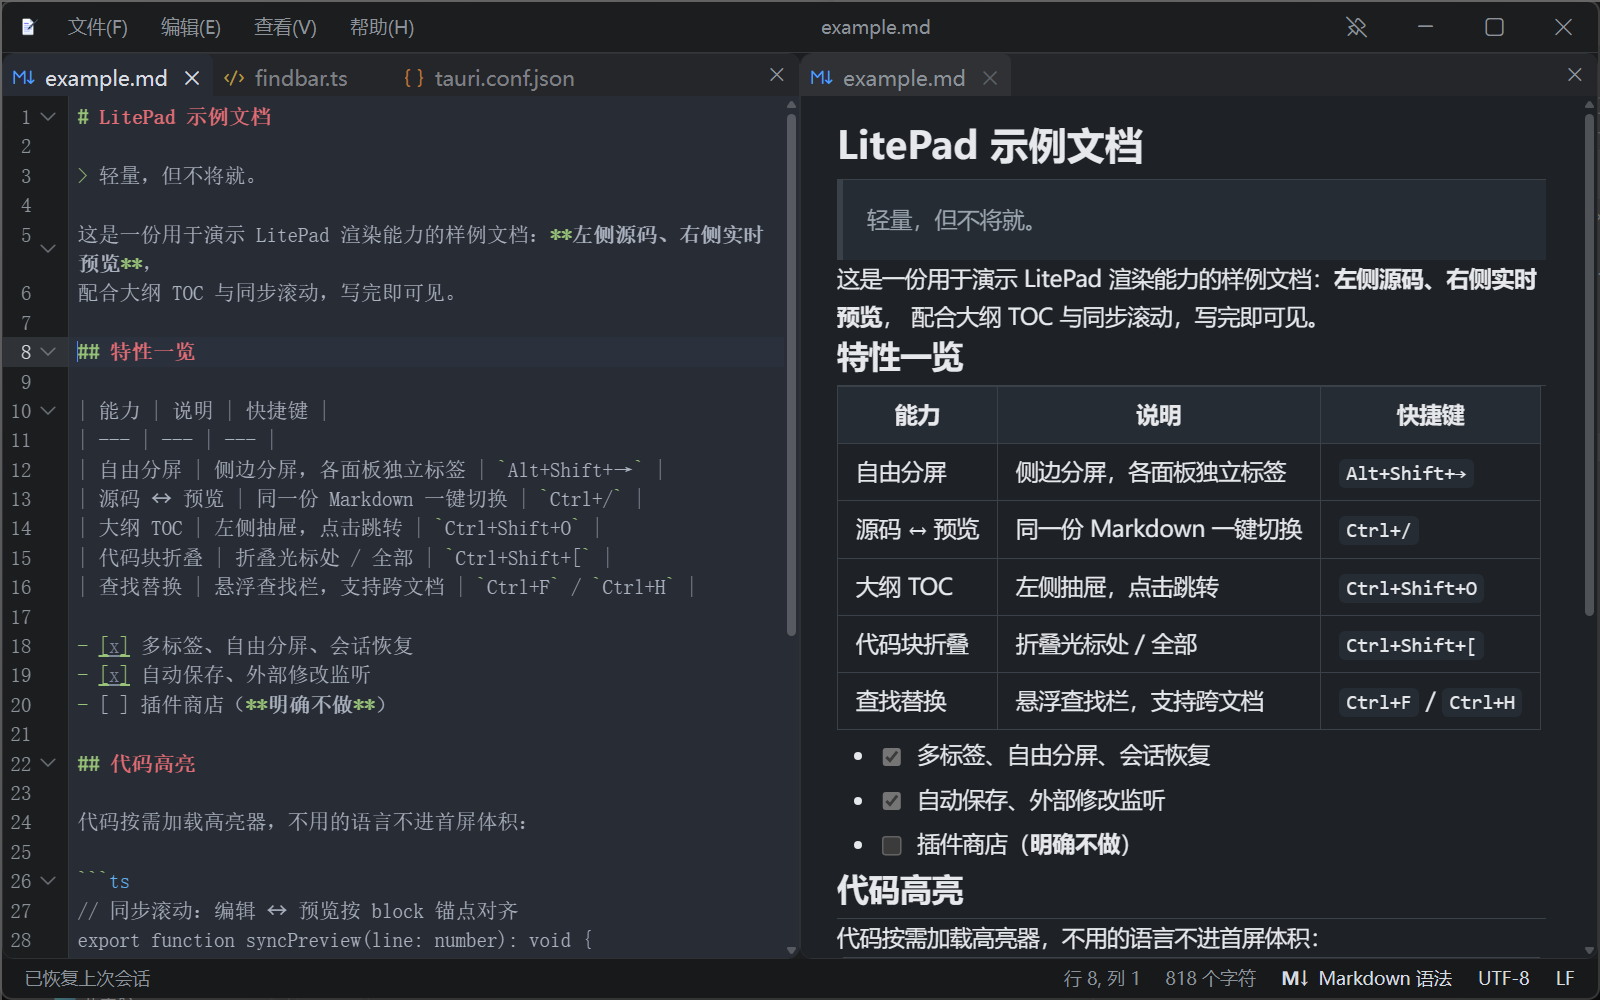
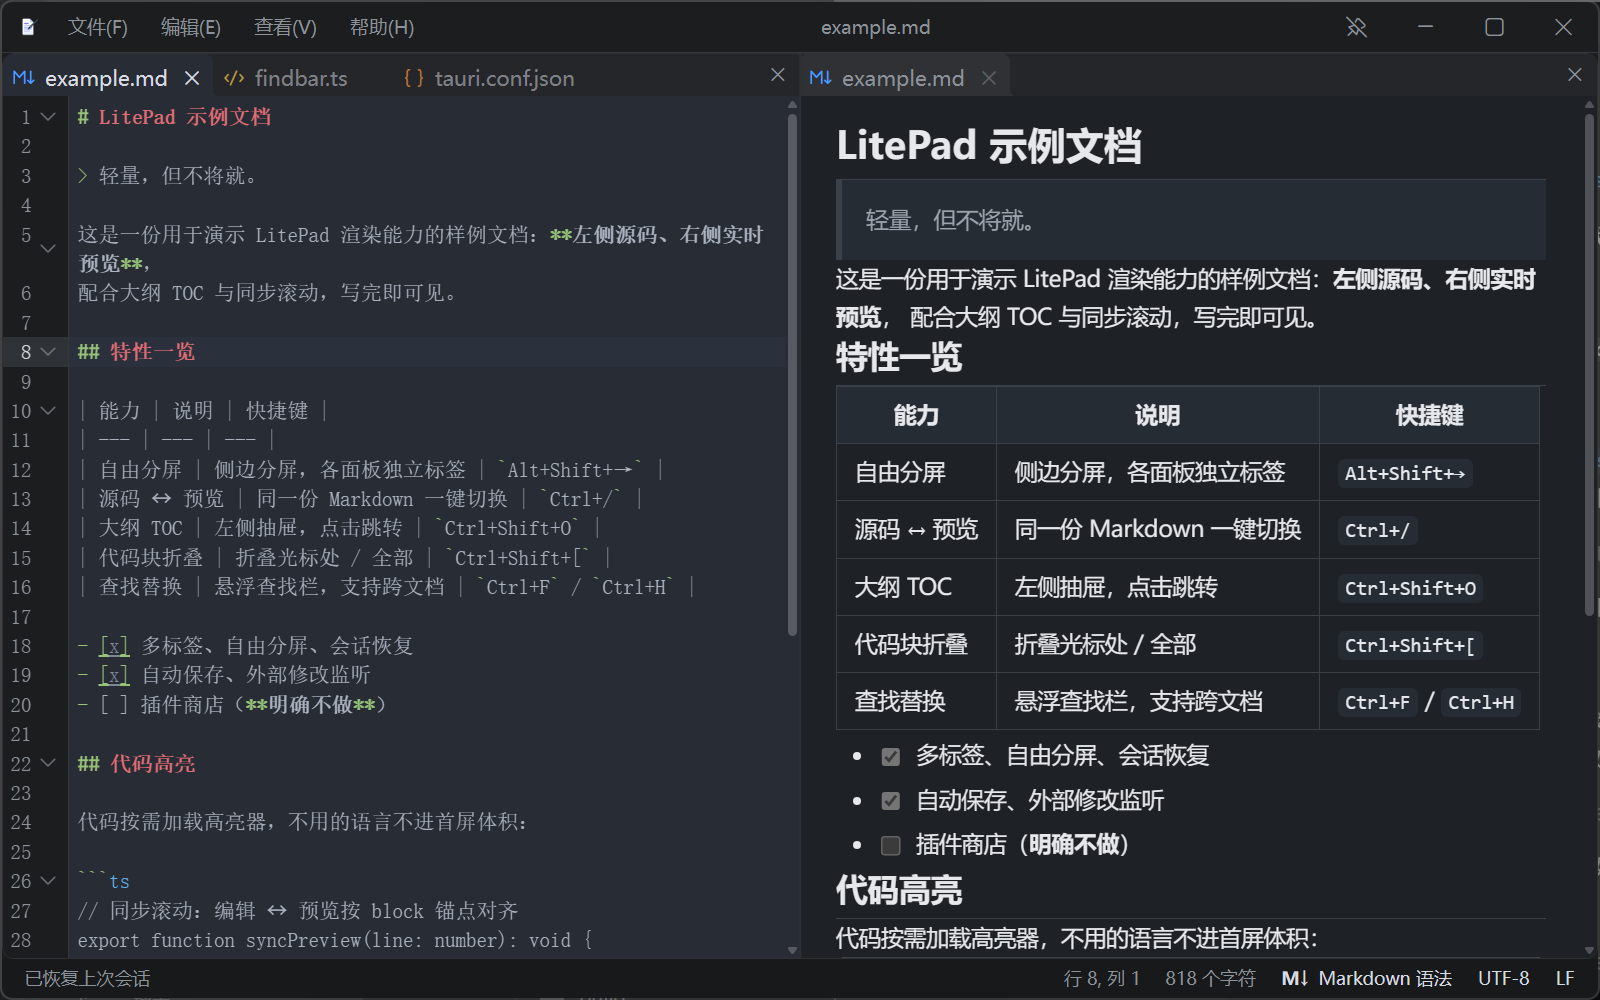
feat(ui): 一张大卡片包住整个标签+编辑区，活动标签反向圆弧肩部回归（B123）
修正 B122 的理解偏差：卡片不是每个分屏一张，而是整张 .layout-area
一个大卡片（1px hover 同色边框 + 8px 圆角，对标 VS Code .part.editor）。
分屏边界落回卡片内部：恢复 --sep-line 静息细线（实拍 #272829 同档）、
边界处无任何圆角。肩部按用户 VS Code 实拍 + connectedEditorTabs.css
源码双重确认回归：fill 底部两外侧 4px 反弧（box-shadow R/2 R/2 0 R/2
技巧），颜色走 --tab-fill-bg 随焦点/档位自动跟随；pill 档 content:none
继续免肩。测试：B120 两条禁肩守卫反转为 B123 契约（含摘肩替身反向
验证）；B122 describe 改写为大卡片契约；59/59 绿；截图已刷

diff --git a/tests/tabstrip.test.ts b/tests/tabstrip.test.ts
@@ -243,17 +243,30 @@ describe("Connected 相连标签（B113，对齐 VS Code 1.139）", () => {
     const hoverFill = cssDecls(ruleBlock(css, ".tab:hover:not(.tab-active) .tab-fill"));
     expect(hoverFill, "悬停要有独立一档底色").toContain("var(--tab-bg-hover)");
 
-    // B120（用户裁决）：肩部整体移除 —— 用户 VS Code 实拍（connected 样式）的
-    // 活动标签是「深色凹槽、侧边直线到底、几乎看不到肩弧」（底部外扩 ≤1 物理像素，
-    // 属抗锯齿残影）。B119 的实色四分之一圆观感远强于 VS Code，随「深色凹槽」
-    // 裁决一并删除；connected 档不得再有任何肩部绘制构造（上底色或阴影都算）。
-    // pill 档的 content:none 占位保留，作「connected 肩部不得回潮」的守卫（见 pillViolations）。
+    // B123（用户裁决，反转 B120）：肩部回归 —— 用户点名「标签下沿要有反向圆弧
+    // 肩部（参考vscode）」。实拍用户 VS Code + 源码 connectedEditorTabs.css 双重
+    // 确认：肩部 = fill 底部两外侧伪元素的反弧（box-shadow 技巧，R=4px），
+    // 构造细节见 global.css 的 B123 注释。仍然禁止的只有「上底色的圆盘构造」
+    // （B119 老做法，观感过重）。
     const cssNoComments = stripCssComments(css);
-    expect(cssNoComments, "connected 不得再画肩（肩部伪元素上底色 = 回潮）").not.toMatch(
-      /\.tab-active \.tab-fill::(?:before|after)\s*\{[^}]*background/,
+    // ⚠ 不用 ruleBlock：肩部首条规则是群组选择器，ruleBlock 会在逗号处提前命中
+    // 共享块；这里直接按独立规则块取。
+    const shoulderBefore = css.match(/\.tab-active \.tab-fill::before\s*\{[^}]*\}/)?.[0] ?? "";
+    expect(shoulderBefore, "左肩必须是 border-bottom-right-radius + box-shadow 反弧").toContain(
+      "box-shadow: 2px 2px 0 2px var(--tab-fill-bg)",
     );
-    expect(cssNoComments, "connected 不得再用 box-shadow 补色画肩").not.toMatch(
-      /\.tab-active \.tab-fill::(?:before|after)\s*\{[^}]*box-shadow/,
+    expect(shoulderBefore, "左肩反弧半径 4px（VS Code cornerRadius-small）").toContain(
+      "border-bottom-right-radius: 4px",
+    );
+    // ⚠ ::after 在群组选择器里恰好后跟 `{`，会先命中共享块 —— 正则里要求
+    // 块内含 box-shadow 值，保证抓到的是独立规则。
+    const shoulderAfter =
+      css.match(/\.tab-active \.tab-fill::after\s*\{[^}]*box-shadow: -2px[^}]*\}/)?.[0] ?? "";
+    expect(shoulderAfter, "右肩必须是镜像的 box-shadow 反弧").toContain(
+      "box-shadow: -2px 2px 0 2px var(--tab-fill-bg)",
+    );
+    expect(cssNoComments, "肩部不得用上底色的圆盘构造（B119 老做法）").not.toMatch(
+      /\.tab-active \.tab-fill::(?:before|after)\s*\{[^}]*background/,
     );
 
     // 三档底色 + 条带表面色，两套主题都要齐：缺一个就是某主题下某状态完全没反馈
@@ -284,8 +297,8 @@ describe("Connected 相连标签（B113，对齐 VS Code 1.139）", () => {
     // B122：ops 段同样无线（B121 的补线随条带细线一并退场）
     const ops = cssDecls(ruleBlock(css, ".panel-ops"));
     expect(ops, "ops 段不得再有 border-bottom（B122 细线整体退场）").not.toContain("border-bottom");
-    // B122：分屏分隔条静息透明、外框改由卡片边框承担 —— 契约见
-    // 「编辑区圆角卡片外框（B122）」一节（--sep-line 仅剩大纲分隔条沿用）。
+    // B123：分屏分隔条静息恢复 --sep-line 细线、外框上移为大卡片 —— 契约见
+    // 「编辑区大卡片外框（B123）」一节。
 
     // B116：闪烁效果整体移除（用户要求）——CSS 与 TS 两侧都不得再有 tab-flash 痕迹
     // （stripCssComments 剥掉说明性注释后断言，避免被「移除记录」误伤）
@@ -386,12 +399,16 @@ describe("Connected 相连标签（B113，对齐 VS Code 1.139）", () => {
       );
     }).toThrow();
 
-    // ② box-shadow 补色回潮（B119 之前的旧构造，B117 起会被条带 overflow 裁掉）
-    const BAD_SHADOW =
-      cssCode + "\n.tab-active .tab-fill::after {\n  box-shadow: -2.5px 2.5px 0 2.5px red;\n}\n";
+    // ② B123 反转：box-shadow 反弧从「禁止」变为「必须存在」——退化替身把
+    //    肩部阴影整个摘掉（回到 B120 的直线侧边），正向契约必须咬住
+    const BAD_NO_SHOULDER = cssCode.replace(
+      /box-shadow: -?2px 2px 0 2px var\(--tab-fill-bg\);/g,
+      "",
+    );
+    expect(BAD_NO_SHOULDER, "替身必须真的摘掉了肩部阴影").not.toBe(cssCode);
     expect(() => {
-      expect(stripCssComments(BAD_SHADOW), "替身的 box-shadow 肩部必须被抓到").not.toMatch(
-        /\.tab-active \.tab-fill::(?:before|after)\s*\{[^}]*box-shadow/,
+      expect(stripCssComments(BAD_NO_SHOULDER), "摘掉肩部的替身必须被咬住").toMatch(
+        /\.tab-active \.tab-fill::before\s*\{[^}]*box-shadow/,
       );
     }).toThrow();
 
@@ -662,27 +679,35 @@ describe("紧凑档悬浮 × 的渐变垫底（B118，对齐 VS Code）", () => 
   });
 });
 
-describe("编辑区圆角卡片外框（B122，对标 VS Code Modern UI editorBorder.css）", () => {
-  it("面板 = 圆角卡片：外框 1px hover 同色、8px 圆角；条带/状态栏/分屏静息线全部退场", () => {
-    // 用户裁决：标签非活动区下沿、状态栏上沿都不再有细线；整个标签+编辑区
-    // 外面只有一圈圆角边框，颜色 ≈ 非活动标签的 hover 底色。
+describe("编辑区大卡片外框（B123，修正 B122：卡片上移到整个标签+编辑区）", () => {
+  it("layout-area = 一张大卡片（1px hover 同色 + 8px 圆角）；面板无框；分屏边界恢复细线；状态栏上沿仍无线", () => {
+    // 用户裁决：不是每个分屏一张卡，而是整个「标签+编辑区」一张大卡片，
+    // 分屏边界落在卡片内部（无圆角、恢复 1px 细线）；边框颜色仍 ≈
+    // 非活动标签 hover 底色（实拍 VS Code #2a2b2c 同档）。
     const css = readFileSync("src/styles/global.css", "utf-8");
 
-    // 卡片外框：VS Code 的 .part.editor 同款三件套（border + radius + overflow）
-    const panel = cssDecls(ruleBlock(css, ".layout-panel"));
-    expect(panel, "面板外框必须是 1px 卡片边框（颜色=非活动 hover 色）").toContain(
+    // 大卡片三件套落在 .layout-area（VS Code 的 .part.editor 同款）
+    const area = cssDecls(ruleBlock(css, ".layout-area"));
+    expect(area, "大卡片外框必须是 1px 卡片边框（颜色=非活动 hover 色）").toContain(
       "border: 1px solid var(--tab-bg-hover)",
     );
-    expect(panel, "卡片圆角 8px（VS Code cornerRadius-large）").toContain("border-radius: 8px");
-    expect(panel, "overflow hidden 裁出圆角（VS Code 同款）").toContain("overflow: hidden");
+    expect(area, "卡片圆角 8px（VS Code cornerRadius-large）").toContain("border-radius: 8px");
+    expect(area, "overflow hidden 裁出圆角（VS Code 同款）").toContain("overflow: hidden");
 
-    // 状态栏上沿无线
+    // 面板本身退回无修饰容器（B122 的每面板卡片已上移）
+    const panel = cssDecls(ruleBlock(css, ".layout-panel"));
+    expect(panel, "面板不得再画卡片边框（B123 卡片上移）").not.toMatch(/border/);
+    expect(panel, "面板不得再有圆角").not.toContain("border-radius");
+
+    // 状态栏上沿无线（状态栏在卡片外面）
     const statusbar = cssDecls(ruleBlock(css, ".statusbar"));
-    expect(statusbar, "状态栏不得再画 border-top（B122）").not.toContain("border-top");
+    expect(statusbar, "状态栏不得再画 border-top").not.toContain("border-top");
 
-    // 分屏分隔条静息隐形（VS Code sash 行为）：相邻卡片边框天然构成分界
+    // 分屏边界恢复静息细线（大卡片内部，实拍 VS Code #272829 ≈ --sep-line）
     const sep = css.match(/\.layout-sep::after\s*\{[^}]*\}/)?.[0] ?? "";
-    expect(sep, "分屏分隔条静息必须透明（B122）").toContain("background: transparent");
+    expect(sep, "分屏分隔条静息必须画 --sep-line 细线（B123）").toContain(
+      "background: var(--sep-line)",
+    );
     // 悬停/拖拽高亮不受影响（B59/B60）：accent + 加宽
     const hl = css.match(/\.layout-sep:hover::after,[\s\S]{0,80}?\{[^}]*\}/)?.[0] ?? "";
     expect(hl, "分隔条悬停高亮仍为 accent").toMatch(/var\(--accent/);
@@ -693,19 +718,31 @@ describe("编辑区圆角卡片外框（B122，对标 VS Code Modern UI editorBo
       /\.toc-resizer::after\s*\{[^}]*background:\s*var\(--sep-line\)/,
     );
 
-    // 反向验证①：分屏分隔条静息回潮（透明改回实色线）必须被咬住
+    // 反向验证①：分屏分隔条静息透明化回潮（B122 旧契约）必须被咬住
     const sepBlock = (src: string) => src.match(/\.layout-sep::after\s*\{[^}]*\}/)?.[0] ?? "";
     const BAD_SEP = css.replace(
       /\.layout-sep::after\s*\{[^}]*\}/,
-      '.layout-sep::after {\n  content: "";\n  position: absolute;\n  background: var(--sep-line);\n}',
+      '.layout-sep::after {\n  content: "";\n  position: absolute;\n  background: transparent;\n}',
     );
     expect(BAD_SEP, "替身必须真的替换过").not.toBe(css);
-    expect(sepBlock(BAD_SEP), "替身自证：静息实色线已被塞回").toContain("var(--sep-line)");
+    expect(sepBlock(BAD_SEP), "替身自证：静息透明已被塞回").toContain("background: transparent");
     expect(() => {
-      expect(sepBlock(BAD_SEP), "替身的静息实色线必须被抓到").toContain("background: transparent");
+      expect(sepBlock(BAD_SEP), "替身的静息透明必须被抓到").toContain(
+        "background: var(--sep-line)",
+      );
     }).toThrow();
 
-    // 反向验证②：状态栏 border-top 回潮必须被咬住
+    // 反向验证②：大卡片边框退潮（layout-area 丢边框）必须被咬住
+    const BAD_AREA = css.replace("border: 1px solid var(--tab-bg-hover);", "border: none;");
+    expect(BAD_AREA, "替身必须真的摘掉了大卡片边框").not.toBe(css);
+    expect(() => {
+      expect(
+        cssDecls(ruleBlock(BAD_AREA, ".layout-area")),
+        "替身缺失的大卡片边框必须被抓到",
+      ).toContain("border: 1px solid var(--tab-bg-hover)");
+    }).toThrow();
+
+    // 反向验证③：状态栏 border-top 回潮必须被咬住
     const BAD_SB = css.replace(
       "background: var(--bg-status);",
       "background: var(--bg-status);\n  border-top: 1px solid var(--border);",

diff --git a/src/styles/global.css b/src/styles/global.css
@@ -598,7 +598,42 @@ button:focus-visible {
    属抗锯齿残影）。B119 按 VS Code 肩部 CSS 结构做的实色四分之一圆，实际观感
    比 VS Code 明显得多，且与「深色凹槽」方向冲突 —— 连同更早的 box-shadow
    旧构造与 :first-child/:last-child 抑制规则一并删除，侧边回归直线。
-   pill 档的 content:none（见下）保留，作为「connected 肩部不得回潮」的守卫。 */
+   ⚠ B123（用户裁决，再次反转）：肩部**回归** —— 用户看到自己 VS Code
+   的标签下沿有反向圆弧肩部，点名要回来。实拍确认（.tmp/vscode-live.png
+   像素扫描）：标签右下角有 4-5 物理像素（≈3px CSS）的外扩反弧，且源码
+   connectedEditorTabs.css 里就是这套构造（此前 B120 的「几乎看不到」结论
+   受 150% 缩放抗锯齿影响，把「小」看成了「没有」）。
+   pill 档的 content:none（见下）继续生效，胶囊档仍然没有肩部。 */
+
+/* B123：反向圆弧肩部 —— 构造逐条对标 connectedEditorTabs.css 的
+   `.tab.active > .tab-fill::before/::after`：
+   伪元素坐在 fill 底部两外侧（R = cornerRadius-small = 4px），
+   border-bottom-*-radius + `box-shadow: R/2 R/2 0 R/2 面色` 的**反弧技巧**——
+   阴影矩形恰好盖住伪元素自身盒再外扩 R/2，圆角把内侧角抠成凹弧，
+   露出的阴影就是贴着标签底部的反向圆弧肩部；阴影溢出伪元素盒的部分
+   落在标签 fill 内侧与条带下方的编辑区里，与面色同色，天然无害，
+   因此不需要 VS Code 的 clip-path: inset(0)。
+   颜色走 --tab-fill-bg：非焦点降档 / pill 提亮改这一个变量时肩部自动跟随。 */
+.tab-active .tab-fill::before,
+.tab-active .tab-fill::after {
+  content: "";
+  position: absolute;
+  bottom: 0;
+  width: 4px;
+  height: 4px;
+  pointer-events: none;
+  transition: box-shadow 0.12s ease;
+}
+.tab-active .tab-fill::before {
+  right: 100%;
+  border-bottom-right-radius: 4px;
+  box-shadow: 2px 2px 0 2px var(--tab-fill-bg);
+}
+.tab-active .tab-fill::after {
+  left: 100%;
+  border-bottom-left-radius: 4px;
+  box-shadow: -2px 2px 0 2px var(--tab-fill-bg);
+}
 
 /* ==================================================================
    B116：标签闪烁效果整体移除（用户要求）。原 B47「切换后闪一次」的
@@ -1971,6 +2006,13 @@ button:focus-visible {
   min-width: 0;
   display: flex;
   overflow: hidden;
+  /* B123（用户裁决，修正 B122）：**整个「标签 + 编辑区」一张大卡片** ——
+     卡片从每个分屏面板（B122）上移到全部分屏共用的容器上；分屏边界落在
+     卡片**内部**，边界处自然没有任何圆角（用户点名）。实拍用户 VS Code：
+     卡片边框 1px #2a2b2c（= 非活动标签 hover 色，用户 B122 点名的判据不变）、
+     外圆角约 6px、状态栏在卡片外面。overflow: hidden 原本就有，正好裁圆角。 */
+  border: 1px solid var(--tab-bg-hover);
+  border-radius: 8px;
 }
 
 .layout-split {
@@ -2011,12 +2053,12 @@ button:focus-visible {
 .layout-sep::after {
   content: "";
   position: absolute;
-  /* B122：静息**透明** —— 每个面板自己就是一张带边框的圆角卡片（见
-     .layout-panel 的 B122 注释），相邻两张卡的边框天然构成面板分界，
-     再画一条线就是三线叠粗；对齐 VS Code sash 的行为：平时隐形、
-     悬停/拖拽才显形（下面的 accent 高亮规则不受影响，B59/B60 照旧）。
-     --sep-line 仍由大纲分隔条（preview.css 的 .toc-resizer）沿用。 */
-  background: transparent;
+  /* B123：静息细线恢复（B122 曾透明）—— 卡片上移到 .layout-area（一张大卡）
+     之后，分屏边界落在卡片内部，不再有「相邻卡片边框」当分界，实拍用户
+     VS Code 的分屏边界就是一条 1px #272829 细线（≈ --sep-line #2e3034，
+     B121 用户已认可的降对比档），贯穿条带与编辑区全程。
+     悬停/拖拽的 accent 高亮规则不受影响（B59/B60 照旧）。 */
+  background: var(--sep-line);
   transition:
     background var(--transition),
     width var(--transition),
@@ -2147,17 +2189,9 @@ button:focus-visible {
   flex: 1 1 auto;
   min-width: 120px;
   min-height: 80px;
-  /* B122（用户裁决，对标 VS Code Modern UI 的 editorBorder.css）：
-     每个面板 = 一张**圆角卡片** —— 整个「标签条 + 编辑区」外面包一圈
-     1px 边框 + 大圆角（VS Code：editorGroup.border + cornerRadius-large=8px +
-     overflow hidden 裁出圆角，box-sizing border-box 不引起重排）。
-     边框颜色用户点名「和非活动 tab 的 hover 颜色一样」→ 直接复用 --tab-bg-hover
-     （深 ≈#2b2d30 / 浅 ≈#e8e9ea，与实拍 VS Code 的 #2a2b2c 同档）。
-     1px 边框原本就占位（transparent），改色零布局位移；卡片内所有内部分割线
-     （条带下沿、状态栏上沿、分屏 sep 静息线）全部退场（见各自 B122 注释）。 */
-  border: 1px solid var(--tab-bg-hover);
-  border-radius: 8px;
-  overflow: hidden;
+  /* B123：B122 曾把圆角卡片画在**每个面板**上，用户指出应上移 ——
+     整个标签+编辑区是**一张**大卡片（见 .layout-area 的 B123 注释），
+     面板本身退回无修饰容器；分屏边界线由 .layout-sep::after 恢复静息细线。 */
   /* 拖拽落点预览层（.split-preview）的定位基准：
      必须锚定到面板自身，否则嵌套分屏时高亮画在整个布局区的一半上 */
   position: relative;
@@ -2174,7 +2208,6 @@ button:focus-visible {
   flex-grow: 0;
   flex-shrink: 0;
   overflow: hidden;
-  border-width: 0;
   pointer-events: none;
 }
 

diff --git a/tests/splitview.test.ts b/tests/splitview.test.ts
@@ -4,7 +4,7 @@
 // 参考源码见 docs/vscode-reference/（sash.ts/css、splitview.css、editorDropTarget.ts）。
 import { describe, expect, it, beforeEach, vi } from "vitest";
 import { readFileSync } from "node:fs";
-import { themeBlock } from "./static";
+import { themeBlock, cssDecls, ruleBlock } from "./static";
 
 // B91-2：标签拖拽走 HTML5 DnD，影像交给 `dataTransfer.setDragImage` 由系统绘制。
 // 本文件要验「tabstrip 确实造了影像并交给了系统」，因此需要一个装着传输层的环境；
@@ -790,13 +790,10 @@ describe("分屏 / 分隔条静态契约（从 regressions 拆出）", () => {
     const line = previewCss.match(/\.toc-resizer::after\s*\{[^}]*\}/)?.[0] ?? "";
     expect(line, "大纲分隔条细线必须由伪元素画").toContain("background: var(--sep-line)");
     // 分屏分隔条：颜色在共享的 .layout-sep::after，几何按方向类定位
-    // （B59 S5：线色从通用 --border 抽成 --sep-line；B122 起分屏侧静息透明 ——
-    //   面板本身是带边框的圆角卡片，相邻卡片边框即分界，静息再画线就是三线叠粗；
-    //   --sep-line 只剩大纲分隔条（.toc-resizer）沿用）
+    // （B59 S5：线色从通用 --border 抽成 --sep-line；B122 曾短暂透明，
+    //   B123 卡片上移到 .layout-area 后分屏边界回到卡片内部，静息细线恢复）
     const sepLine = globalCss.match(/\.layout-sep::after\s*\{[^}]*\}/)?.[0] ?? "";
-    expect(sepLine, "分屏分隔条静息必须透明（B122 卡片边框替代细线）").toContain(
-      "background: transparent",
-    );
+    expect(sepLine, "分屏分隔条细线必须由伪元素画").toContain("background: var(--sep-line)");
     expect(globalCss, "横向分隔条的细线几何").toMatch(/\.layout-sep-h::after\s*\{/);
     expect(globalCss, "纵向分隔条的细线几何").toMatch(/\.layout-sep-v::after\s*\{/);
 
@@ -850,11 +847,19 @@ describe("分屏 / 分隔条静态契约（从 regressions 拆出）", () => {
     // S4 缩放期间抑制面板内过渡（拖动不发飘）
     expect(css, "缩放期间抑制过渡").toMatch(/body\.layout-dragging \.layout-panel \*/);
 
-    // S5 线色抽成 --sep-line（B59）；B122 起分屏侧静息透明（卡片边框替代细线），
-    // --sep-line 只剩大纲分隔条沿用，两套主题仍须保留定义
-    expect(css, "分屏分隔条静息必须透明（B122 卡片边框替代细线）").toMatch(
-      /\.layout-sep::after\s*\{[^}]*background:\s*transparent/,
+    // S5 线色抽成 --sep-line（B59）；B122 曾透明，B123 卡片上移到 .layout-area
+    // 后分屏边界回到卡片内部，静息细线恢复；大纲分隔条同款共用，两套主题齐补
+    expect(css, "分屏分隔条线色走 --sep-line").toMatch(
+      /\.layout-sep::after\s*\{[^}]*background:\s*var\(--sep-line\)/,
     );
+    // B123：整个标签+编辑区是一张大卡片（.layout-area），面板本身无框
+    const area = cssDecls(ruleBlock(css, ".layout-area"));
+    expect(area, "大卡片外框 1px（颜色=非活动 hover 色）").toContain(
+      "border: 1px solid var(--tab-bg-hover)",
+    );
+    expect(area, "大卡片圆角 8px").toContain("border-radius: 8px");
+    const panelCard = cssDecls(ruleBlock(css, ".layout-panel"));
+    expect(panelCard, "面板本身不得再画卡片边框（B123 卡片上移）").not.toMatch(/border/);
     expect(previewCss, "大纲分隔条线色同款").toMatch(
       /\.toc-resizer::after\s*\{[^}]*background:\s*var\(--sep-line\)/,
     );
